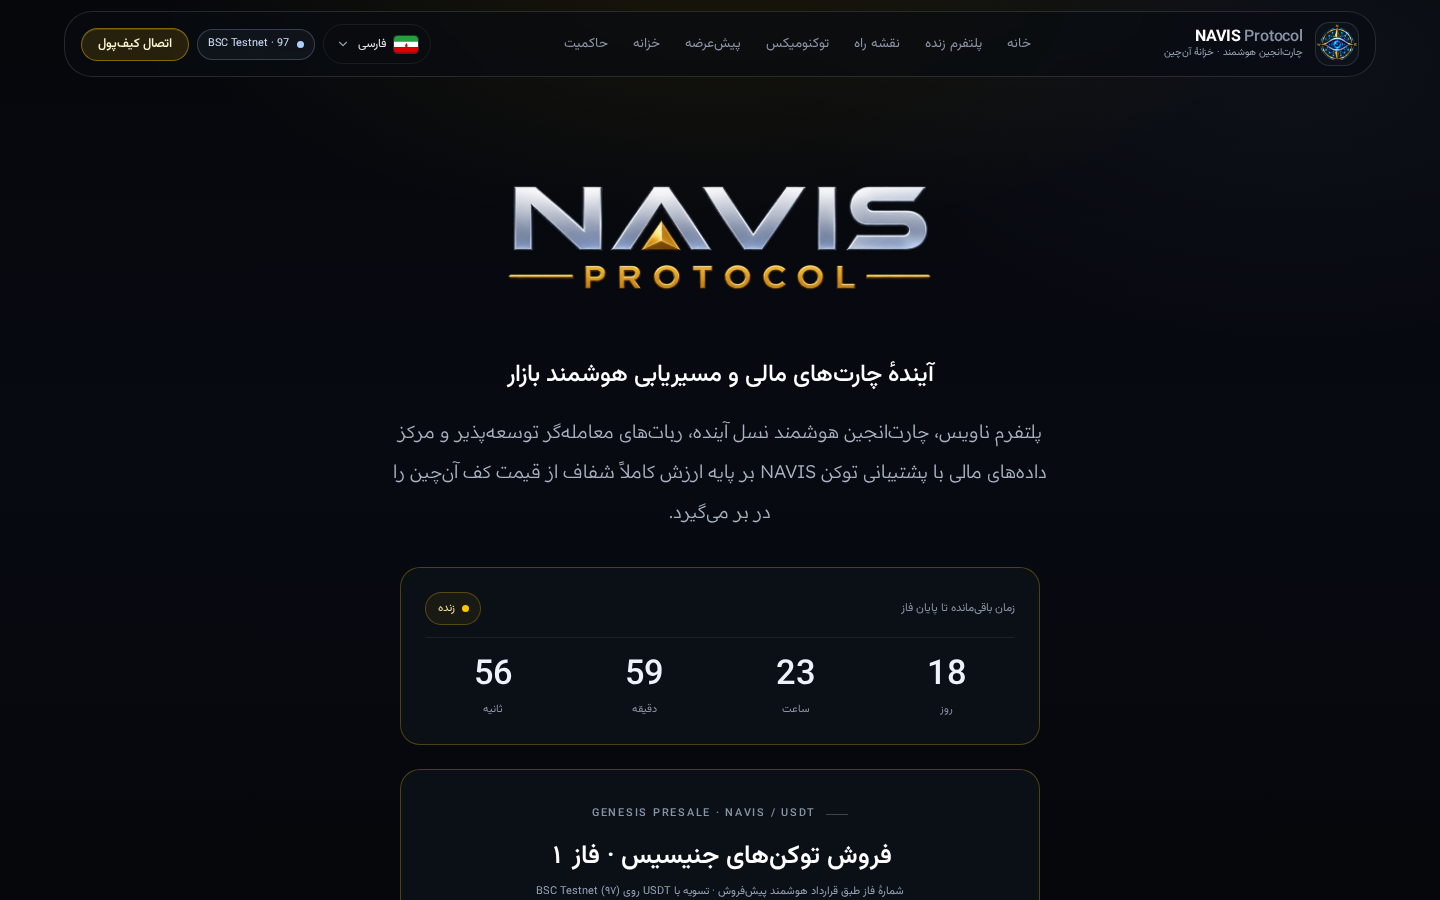
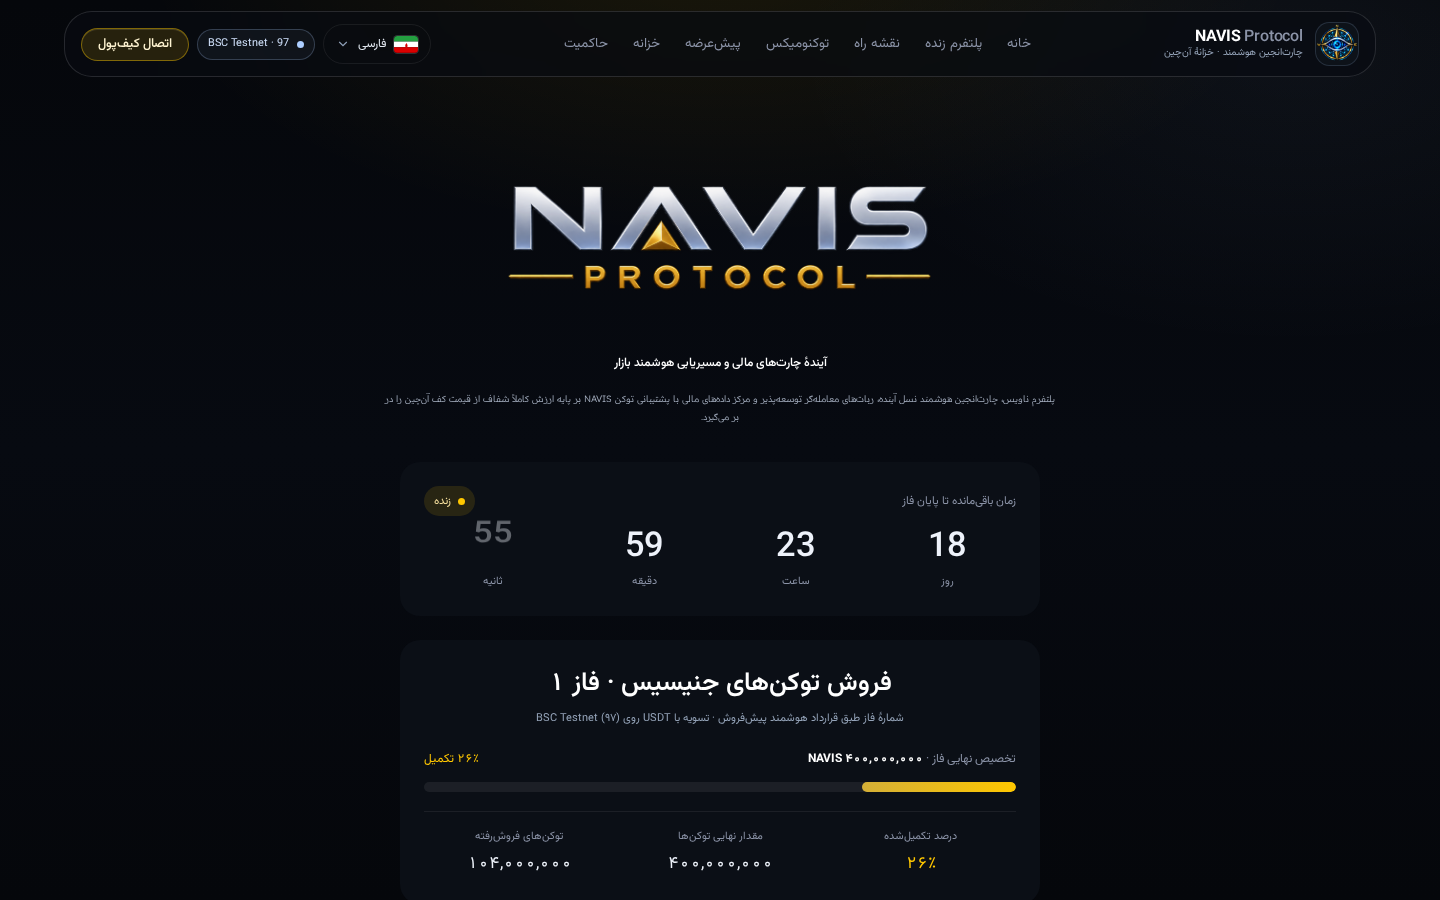
Tighten the hero and strip the card frames: halve the tagline and lead, drop the eyebrow, level the columns, remove the borders on the hero cards

diff --git a/navis-landing/index.html b/navis-landing/index.html
@@ -240,17 +240,28 @@
     @media(min-width:640px){.hero-tag{max-width:min(52vw,27rem)}}
     @media(min-width:1024px){.hero-tag{max-width:min(38vw,29rem)}}
     /* finer, lighter lead face — deliberately distinct from the display headline */
-    .hero-lead{font-family:"Readex Pro","Vazirmatn",ui-sans-serif,system-ui,sans-serif;font-weight:300;font-size:clamp(1rem,1.5vw,1.15rem);line-height:2.15;letter-spacing:.005em}
+    .hero-lead{font-family:"Readex Pro","Vazirmatn",ui-sans-serif,system-ui,sans-serif;font-weight:300;font-size:clamp(.5rem,.75vw,.575rem);line-height:2;letter-spacing:.005em}
     /* the countdown row and the Genesis row are centred and about half the plate wide */
     .hero-half{width:min(100%,40rem)}
-    .gx-grid{display:grid;gap:1.6rem;margin-top:1.6rem;width:min(100%,52rem);margin-inline:auto}
+    .gx-grid{display:grid;gap:1.2rem;margin-top:1.2rem;width:min(100%,52rem);margin-inline:auto}
     @media(min-width:1024px){
-      .gx-grid{grid-template-columns:minmax(0,1.02fr) minmax(0,.98fr);gap:2.5rem;align-items:start}
+      .gx-grid{grid-template-columns:repeat(2,minmax(0,1fr));gap:1.5rem;align-items:stretch}
     }
     .bar-head{display:flex;flex-wrap:wrap;align-items:baseline;justify-content:space-between;gap:.4rem .9rem;font-size:.75rem;color:var(--mut)}
     .bar-foot{display:grid;grid-template-columns:repeat(3,minmax(0,1fr));gap:.6rem;margin-top:1.15rem;border-top:1px solid var(--hair);padding-top:1rem;text-align:center}
     .bar-foot .label{display:block;font-size:.68rem;line-height:1.7}
     .bar-foot .v{display:block;margin-top:.2rem;font-family:var(--font-num);font-variant-numeric:tabular-nums;font-size:clamp(.85rem,1.7vw,1.05rem);color:#EDF2FA}
+    /* ---------- hero · flat / borderless refinements ---------- */
+    #hero .cd-wrap{border-top:0;padding-top:0}
+    #hero .chip{border:0;background:rgba(255,255,255,.05);padding:.28rem .62rem}
+    #hero .chip-gold{background:rgba(255,199,0,.12);color:#F2DC9B}
+    #hero .num-field{border:0;background:rgba(255,255,255,.06)}
+    #hero .num-field:focus{background:rgba(255,199,0,.10);box-shadow:none}
+    #hero .btn-1{border:0;background:rgba(255,199,0,.16);box-shadow:none}
+    #hero .btn-1:hover{background:rgba(255,199,0,.24);color:#fff;box-shadow:none}
+    #hero .divider-glow{opacity:.55}
+    /* the hero cards carry no frame — the plate fill alone sets them apart */
+    #hero .glass,#hero .floor-hl{border:0}
 
     /* ---------- terminal / chart ---------- */
     .term{border-radius:1.25rem;overflow:hidden;background:var(--plate);border:1px solid var(--hair);box-shadow:none}
@@ -446,7 +457,7 @@
 
         <!-- ---------- headline + protocol description · centred ---------- -->
         <div class="mx-auto mt-7 max-w-3xl text-center">
-          <h1 class="reveal fdisp hero-tag text-white" style="--d:60ms;font-weight:500;font-size:clamp(1.02rem,1.95vw,1.5rem);line-height:1.75;letter-spacing:-.01em">
+          <h1 class="reveal fdisp hero-tag text-white" style="--d:60ms;font-weight:500;font-size:clamp(.51rem,.975vw,.75rem);line-height:1.6;letter-spacing:-.01em">
             آیندهٔ چارتهای مالی و مسیریابی هوشمند بازار
           </h1>
           <p class="reveal lead hero-lead mx-auto mt-4 max-w-2xl" style="--d:120ms">
@@ -484,18 +495,17 @@
         </div>
 
         <!-- ---------- row 2 · Genesis presale · centred, about half the plate ---------- -->
-        <div class="reveal hero-half mx-auto glass gold-ring mt-6 p-5 sm:p-7" style="--d:200ms">
+        <div class="reveal hero-half mx-auto glass gold-ring mt-6 p-5 sm:p-6" style="--d:200ms">
 
           <div class="text-center">
-            <span class="eyebrow">Genesis Presale · NAVIS / USDT</span>
-            <h2 class="fdisp mt-3 text-white" style="font-weight:600;font-size:clamp(1.15rem,2.4vw,1.6rem);line-height:1.6">
+            <h2 class="fdisp text-white" style="font-weight:600;font-size:clamp(1.15rem,2.4vw,1.6rem);line-height:1.6">
               فروش توکنهای جنیسیس · فاز <span id="phaseNumber" class="fnum">۱</span>
             </h2>
             <p class="mt-1 text-[11px]" style="color:#94A3B8">شمارهٔ فاز طبق قرارداد هوشمند پیشفروش · تسویه با USDT روی BSC Testnet (۹۷)</p>
           </div>
 
           <!-- phase progress: percent · final amount · sold amount -->
-          <div class="mt-6">
+          <div class="mt-5">
             <div class="bar-head">
               <span>تخصیص نهایی فاز · <b class="fnum" style="color:#fff">۴۰۰,۰۰۰,۰۰۰ NAVIS</b></span>
               <span class="fnum" style="color:#FFC700">۲۶٪ تکمیل</span>
@@ -529,8 +539,10 @@
                 <span style="color:#94A3B8">قیمت هر توکن</span>
                 <span id="presalePrice" class="fnum text-white">$0.010</span>
               </div>
-              <label class="mt-1 block text-xs" for="usdtAmount" style="color:#94A3B8">مبلغ تتر (USDT)</label>
-              <input id="usdtAmount" type="number" min="0" step="10" value="1000" class="num-field w-full rounded-xl px-3 py-3 text-white outline-none" style="border:1px solid var(--hair2);background:rgba(255,255,255,.03)" />
+              <div class="flex items-center justify-between gap-3">
+                <label class="text-xs" for="usdtAmount" style="color:#94A3B8">مبلغ تتر (USDT)</label>
+                <input id="usdtAmount" type="number" min="0" step="10" value="1000" class="num-field w-40 max-w-[58%] rounded-lg px-3 py-2 text-end text-sm text-white outline-none" style="border:0;background:rgba(255,255,255,.06)" />
+              </div>
               <div class="flex items-center justify-between text-sm">
                 <span style="color:#94A3B8">توکن تخمینی</span>
                 <span id="tokenEstimate" class="fnum" style="color:#FFC700">100,000 NAVIS</span>
@@ -542,8 +554,10 @@
             </div>
 
             <button id="buyPresale" type="button" class="btn btn-1 mt-5 w-full">خرید در پیشفروش</button>
-            <p id="walletStatus" class="mt-3 text-center text-xs" style="color:#94A3B8">کیفپولی متصل نیست</p>
-            <p id="networkStatus" class="mt-1 text-center text-[11px]" style="color:#94A3B8">شبکه: متصل نیست</p>
+            <div class="mt-3 flex flex-wrap items-center justify-center gap-2">
+              <span id="walletStatus" class="chip">کیفپولی متصل نیست</span>
+              <span id="networkStatus" class="chip">شبکه: متصل نیست</span>
+            </div>
           </div>
 
           <!-- ---------- left · guaranteed treasury floor ---------- -->
@@ -560,7 +574,7 @@
                 <li class="flex items-center justify-between gap-8"><span style="color:#94A3B8">تخفیف نسبت به کف</span><span class="fnum">۷۴٪</span></li>
               </ul>
             </div>
-            <div class="divider-glow my-4"></div>
+            <div class="divider-glow my-3"></div>
             <p class="text-[11px] leading-6" style="color:#94A3B8">
               اتصال کیفپول از نوار بالای صفحه انجام میشود · هر توکن خریداریشده تا لحظهٔ تسویه با ذخیرهٔ تتر خزانه و کف قیمت
               <span style="color:#ADCEFF">NAV Floor</span> پشتیبانی میشود. قرارداد پیشفروش برای

diff --git a/navis-landing/README.md b/navis-landing/README.md
@@ -101,8 +101,9 @@ it only ever touches ids/classes.
   (for Tailwind utilities) and in `:root` (plain CSS) — so the shell still renders correctly if the
   Tailwind CDN is unreachable.
 - **Flat surfaces (Pass A)** — `.card`/`.glass`/`.floor-hl`/`.term` are flat plates with a 1px hairline
-  border and **no** `backdrop-filter` and no coloured drop shadows; the 92px grid (`.bg-lines`) and the
-  grain overlay (`.bg-noise`) are retired (`display:none`; the divs stay in the markup), leaving a
+  border (the hero plates drop even that hairline — see *Centred emblem hero*) and **no**
+  `backdrop-filter` and no coloured drop shadows; the 92px grid (`.bg-lines`) and the grain overlay
+  (`.bg-noise`) are retired (`display:none`; the divs stay in the markup), leaving a
   single soft radial glow behind the hero. CTAs are pills (`border-radius: 999px`) with a translucent
   gold fill plus a 1px inset ring — no gradient sweep on hover.
 - **Floating capsule header (Pass A)** — `.hdr` is sticky with `padding-top:.7rem`, and `.hdr-in` is a
@@ -118,11 +119,14 @@ it only ever touches ids/classes.
   `navisprotocol.png` wordmark (`.hero-mark`, clamped width), the headline (`.hero-tag`, capped to the
   wordmark's own box so it never spills wider) and the protocol lead (`.hero-lead` — a finer, lighter
   face set apart from the display headline). Below the column come two centred rows about half the
-  plate wide (`.hero-half`): first the gold `#countdown` card, then the Genesis presale card (eyebrow,
-  `#phaseNumber`, phase bar). Under those, `.gx-grid` holds the two columns — the price/buy panel on
-  the right and the NAV‑Floor card on the left. The CTA pair that used to sit under the lead is gone;
-  the buy button inside the widget is the hero's only CTA. Every figure on the block still reads from
-  the contracts (`.bar-head`/`.bar-foot` for the allocation, percent and sold amount).
+  plate wide (`.hero-half`): first the gold `#countdown` card, then the Genesis presale card
+  (`#phaseNumber`, phase bar). Under those, `.gx-grid` holds two equal-height columns — the price/buy
+  panel on the right and the NAV‑Floor card on the left. The CTA pair that used to sit under the lead
+  is gone; the buy button inside the widget is the hero's only CTA. Every figure on the block still
+  reads from the contracts (`.bar-head`/`.bar-foot` for the allocation, percent and sold amount). This
+  is also the flattest block on the page: the `.hero-tag`/`.hero-lead` type is set small, the eyebrow
+  label is gone, the four cards drop their hairline frame entirely (`#hero .glass` + `#hero .floor-hl`
+  set `border: 0`) and the chip, countdown rule, input and buy button are border-less fills.
 - **CDN‑independent responsive visibility** — the shell's own `.hidden { display: none }` would
   otherwise out‑rank Tailwind's `lg:flex` / `sm:inline` (same specificity, later in the cascade), so
   the header uses explicit classes with their own media queries instead: `.nav-desk`, `.menu-btn`,
